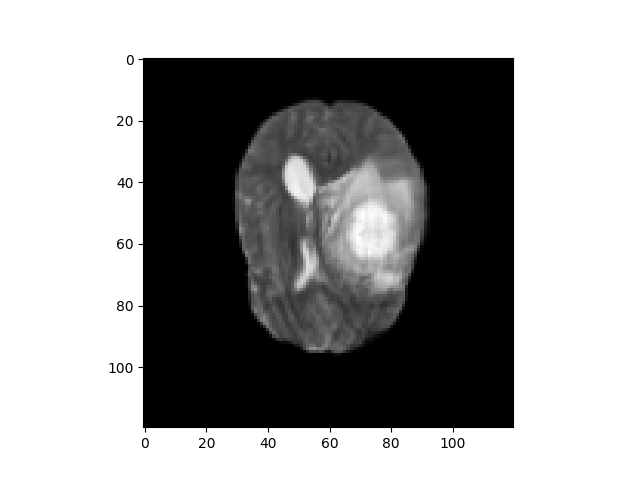
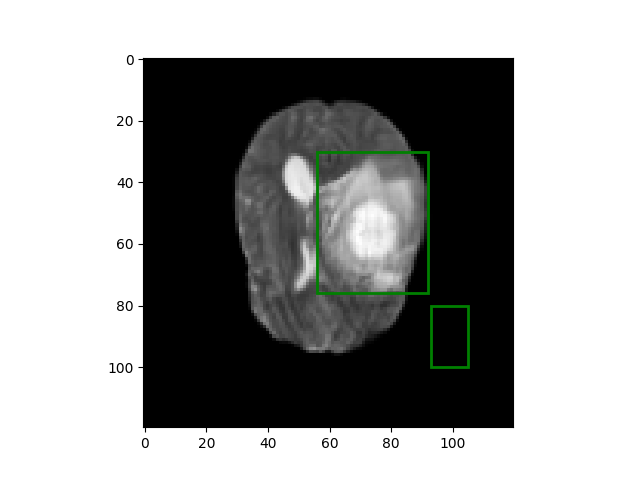
Slight bugfix which can cause crashing due using an interactive matplotlib

Changed region(s): [[0.4688, 0.3125, 0.75, 0.7812]]

diff --git a/src_validate/build_app/infer_app.py b/src_validate/build_app/infer_app.py
@@ -20,6 +20,8 @@ from monai.data import MetaTensor
 import re
 from itertools import product 
 # from segment_anything import SamPredictor
+import matplotlib
+matplotlib.use('Agg')
 import matplotlib.pyplot as plt
 import warnings 
 #Sanity checking:
